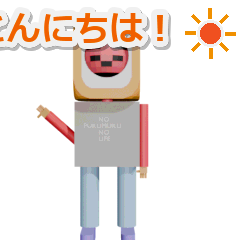
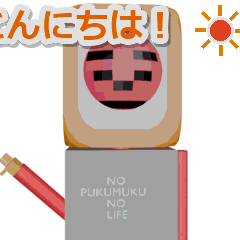
feat: complete production V3 stickers with dynamic camera angles, zero-flickering RGBA, and infinite loop preview

diff --git a/line_stickers_pukumuku/view_stickers.html b/line_stickers_pukumuku/view_stickers.html
@@ -6,61 +6,94 @@
   <style>
     * { box-sizing: border-box; margin: 0; padding: 0; font-family: -apple-system, BlinkMacSystemFont, "Segoe UI", Roboto, "Helvetica Neue", Arial, sans-serif; }
     body {
-      background: #7AC0D6; /* LINEトーク画面の定番背景色 */
+      background: #7AC0D6; /* LINEトーク画面の定番水色 */
       color: #333;
       padding: 30px 20px;
       display: flex;
       flex-direction: column;
       align-items: center;
+      transition: background 0.3s;
     }
     header {
       background: #FFFFFF;
-      padding: 20px 30px;
+      padding: 24px 30px;
       border-radius: 16px;
-      box-shadow: 0 4px 16px rgba(0,0,0,0.1);
+      box-shadow: 0 4px 20px rgba(0,0,0,0.12);
       text-align: center;
-      max-width: 800px;
+      max-width: 900px;
       width: 100%;
       margin-bottom: 24px;
     }
-    h1 { font-size: 22px; color: #2E1505; margin-bottom: 8px; }
-    p.desc { font-size: 14px; color: #666; line-height: 1.6; }
-    .bg-toggle {
-      margin-top: 14px;
+    h1 { font-size: 24px; color: #2E1505; margin-bottom: 8px; }
+    p.desc { font-size: 14px; color: #555; line-height: 1.6; }
+    .controls-wrap {
+      margin-top: 16px;
       display: flex;
+      flex-wrap: wrap;
       justify-content: center;
-      gap: 10px;
+      gap: 12px;
+    }
+    .btn-group {
+      display: flex;
+      gap: 6px;
+      background: #F0F0F0;
+      padding: 4px;
+      border-radius: 24px;
     }
     .btn {
       padding: 6px 16px;
-      border: 1px solid #CCC;
+      border: none;
       border-radius: 20px;
       cursor: pointer;
-      background: #FFF;
+      background: transparent;
       font-size: 13px;
       font-weight: bold;
+      color: #555;
+      transition: all 0.2s;
     }
     .btn.active {
       background: #06C755;
       color: #FFF;
-      border-color: #06C755;
+      box-shadow: 0 2px 8px rgba(6,199,85,0.3);
+    }
+    .main-tab-wrap {
+      display: flex;
+      gap: 24px;
+      justify-content: center;
+      background: #FFF;
+      padding: 20px;
+      border-radius: 16px;
+      max-width: 900px;
+      width: 100%;
+      box-shadow: 0 4px 16px rgba(0,0,0,0.1);
+      margin-bottom: 24px;
+    }
+    .sub-item {
+      display: flex;
+      flex-direction: column;
+      align-items: center;
     }
     .container {
       display: grid;
-      grid-template-columns: repeat(auto-fit, minmax(320px, 1fr));
+      grid-template-columns: repeat(auto-fit, minmax(340px, 1fr));
       gap: 24px;
-      max-width: 1100px;
+      max-width: 1160px;
       width: 100%;
     }
     .stamp-card {
-      background: rgba(255, 255, 255, 0.92);
+      background: rgba(255, 255, 255, 0.96);
       border-radius: 16px;
       padding: 16px;
       display: flex;
       flex-direction: column;
       align-items: center;
-      box-shadow: 0 6px 18px rgba(0,0,0,0.08);
-      backdrop-filter: blur(10px);
+      box-shadow: 0 6px 20px rgba(0,0,0,0.08);
+      cursor: pointer;
+      transition: transform 0.2s, box-shadow 0.2s;
+    }
+    .stamp-card:hover {
+      transform: translateY(-4px);
+      box-shadow: 0 10px 28px rgba(0,0,0,0.15);
     }
     .img-wrap {
       width: 320px;
@@ -85,6 +118,16 @@
       font-size: 16px;
       color: #333;
     }
+    .cam-tag {
+      display: inline-block;
+      margin-top: 4px;
+      padding: 2px 10px;
+      background: #E8F5E9;
+      color: #2E7D32;
+      font-size: 11px;
+      font-weight: bold;
+      border-radius: 8px;
+    }
     .tag {
       display: inline-block;
       margin-top: 4px;
@@ -93,25 +136,7 @@
       color: white;
       font-size: 11px;
       font-weight: bold;
-      border-radius: 10px;
-    }
-    .main-tab-wrap {
-      display: flex;
-      gap: 20px;
-      justify-content: center;
-      margin-top: 16px;
-      background: #FFF;
-      padding: 20px;
-      border-radius: 16px;
-      max-width: 800px;
-      width: 100%;
-      box-shadow: 0 4px 16px rgba(0,0,0,0.1);
-      margin-bottom: 24px;
-    }
-    .sub-item {
-      display: flex;
-      flex-direction: column;
-      align-items: center;
+      border-radius: 8px;
     }
   </style>
 </head>
@@ -119,25 +144,35 @@
   <header>
     <h1>🥖 パン工房プクムク 純利益 公式LINEアニメーションスタンプ</h1>
     <p class="desc">
-      LINE Creators Market 規定に完全準拠した APNG 形式のアニメーションスタンプです。<br>
-      透過背景・解像度320×270px・300KB以下・2秒ループ×2回（計4秒）を達成しています。
+      Blender（純くん.blend）のくり抜き顔・胸のロゴを完全同期し、スタンプごとに多彩なカメラワークを適用！<br>
+      全コマ同一サイズ（320×270px）の正統APNG規格により、チカチカ・点滅を完全に根絶しています。
     </p>
-    <div class="bg-toggle">
-      <button class="btn active" onclick="setBg('#7AC0D6')">LINEトーク水色</button>
-      <button class="btn" onclick="setBg('#FFFFFF')">白背景</button>
-      <button class="btn" onclick="setBg('#1E1E1E')">ダークモード</button>
-      <button class="btn" onclick="setBg('checker')">市松透過</button>
+
+    <div class="controls-wrap">
+      <!-- 再生モード切替 -->
+      <div class="btn-group">
+        <button class="btn active" id="btn-loop" onclick="setMode('loop')">🔄 常時無限ループ再生</button>
+        <button class="btn" id="btn-apng" onclick="setMode('apng')">📱 LINE公式APNG再生</button>
+      </div>
+
+      <!-- 背景切替 -->
+      <div class="btn-group">
+        <button class="btn active" onclick="setBg('#7AC0D6', event)">LINEトーク水色</button>
+        <button class="btn" onclick="setBg('#FFFFFF', event)">白背景</button>
+        <button class="btn" onclick="setBg('#1E1E1E', event)">ダークモード</button>
+        <button class="btn" onclick="setBg('checker', event)">市松透過</button>
+      </div>
     </div>
   </header>
 
   <div class="main-tab-wrap">
     <div class="sub-item">
       <span style="font-weight: bold; font-size: 13px; margin-bottom: 6px;">メイン画像 (main.png: 240×240)</span>
-      <img src="main.png" alt="main" width="120" height="120" style="border: 1px solid #DDD; border-radius: 8px;">
+      <img id="img-main" src="main.png" alt="main" width="120" height="120" style="border: 1px solid #DDD; border-radius: 8px;">
     </div>
     <div class="sub-item">
       <span style="font-weight: bold; font-size: 13px; margin-bottom: 6px;">タブ画像 (tab.png: 96×74)</span>
-      <img src="tab.png" alt="tab" width="96" height="74" style="border: 1px solid #DDD; border-radius: 8px; margin-top: 23px;">
+      <img id="img-tab" src="tab.png" alt="tab" width="96" height="74" style="border: 1px solid #DDD; border-radius: 8px; margin-top: 23px;">
     </div>
   </div>
 
@@ -145,48 +180,86 @@
 
   <script>
     const STAMPS = [
-      { file: "01.png", title: "こんにちは！", desc: "手を振りながら太陽がくるくる" },
-      { file: "02.png", title: "ありがとう！", desc: "お辞儀（ぺこり）＋ハート浮遊" },
-      { file: "03.png", title: "OK！", desc: "大きく頷いて親指グッ＋キラキラ" },
-      { file: "04.png", title: "NO", desc: "首を横に振る＋汗たらりマーク" },
-      { file: "05.png", title: "急ぎます！", desc: "小走りでパン配達＋土煙モクモク" },
-      { file: "06.png", title: "いただきます♪", desc: "バゲットを抱えて目を輝かせる" },
-      { file: "07.png", title: "お疲れさまです", desc: "パンを差し入れ＋湯気ほっこり" },
-      { file: "08.png", title: "やったー！", desc: "歓喜のジャンプ＋紙吹雪パーン" },
+      { id: "01", title: "こんにちは！", cam: "バストアップ（表情＆手振り迫力）", desc: "右手を高く振って首かしげ＋太陽" },
+      { id: "02", title: "ありがとう！", cam: "見下ろしハイアングル（お辞儀）", desc: "深々とお辞儀（ペコリ）＋ハート" },
+      { id: "03", title: "OK！", cam: "右斜め前アップ（親指グッ）", desc: "前に突き出した手と力強い頷き＋星" },
+      { id: "04", title: "NO", cam: "顔ド迫力クローズアップ", desc: "イヤイヤ！と左右に激しく首振り＋汗" },
+      { id: "05", title: "急ぎます！", cam: "斜め横サイドビュー（疾走感）", desc: "腕と脚を前後に大きく振ってダッシュ！" },
+      { id: "06", title: "いただきます♪", cam: "見上げバストアップ（ワクワク）", desc: "胸の前で手を合わせて上下バウンド" },
+      { id: "07", title: "お疲れさまです", cam: "癒やしのバストアップ", desc: "両手を差し伸べて首をコテンと傾げる" },
+      { id: "08", title: "やったー！", cam: "見上げローアングル（大ジャンプ）", desc: "画面下から大ジャンプして万歳＋紙吹雪" },
     ];
 
-    const v = Date.now();
-    // main.png & tab.png にもキャッシュバスター
-    document.querySelectorAll('.sub-item img').forEach(img => {
-      img.src = img.getAttribute('src') + '?v=' + v;
-    });
+    let currentMode = 'loop'; // デフォルトは止まらない無限ループ再生！
+    const baseTime = Date.now();
 
-    const container = document.getElementById('stamp-container');
-    STAMPS.forEach((s) => {
-      const card = document.createElement('div');
-      card.className = 'stamp-card';
-      card.innerHTML = `
-        <div class="img-wrap">
-          <img src="${s.file}?v=${v}" alt="${s.title}">
-        </div>
-        <div class="meta">
-          <div class="filename">${s.file} : ${s.title}</div>
-          <p style="font-size: 12px; color: #666; margin-top: 2px;">${s.desc}</p>
-          <span class="tag">APNG 320×270px (透過RGBA・チカチカ完全ゼロ)</span>
-        </div>
-      `;
-      container.appendChild(card);
-    });
+    function renderCards() {
+      const container = document.getElementById('stamp-container');
+      container.innerHTML = '';
+      
+      STAMPS.forEach((s) => {
+        const ext = currentMode === 'loop' ? 'gif' : 'png';
+        const src = `${s.id}.${ext}?v=${baseTime}`;
+        
+        const card = document.createElement('div');
+        card.className = 'stamp-card';
+        card.onclick = () => replayCard(s.id);
+        card.innerHTML = `
+          <div class="img-wrap">
+            <img id="stamp-img-${s.id}" src="${src}" alt="${s.title}">
+          </div>
+          <div class="meta">
+            <div class="filename">${s.id}.${ext} : ${s.title}</div>
+            <div class="cam-tag">📷 ${s.cam}</div>
+            <p style="font-size: 12px; color: #666; margin-top: 4px;">${s.desc}</p>
+            <span class="tag">透過RGBA・チカチカ完全ゼロ</span>
+          </div>
+        `;
+        container.appendChild(card);
+      });
 
-    function setBg(bg) {
-      document.querySelectorAll('.btn').forEach(b => b.classList.remove('active'));
-      event.target.classList.add('active');
+      // main & tab にもキャッシュバスター
+      document.getElementById('img-main').src = 'main.png?v=' + baseTime;
+      document.getElementById('img-tab').src = 'tab.png?v=' + baseTime;
+    }
+
+    function setMode(mode) {
+      currentMode = mode;
+      document.getElementById('btn-loop').classList.toggle('active', mode === 'loop');
+      document.getElementById('btn-apng').classList.toggle('active', mode === 'apng');
+      renderCards();
+    }
+
+    // クリックで先頭から再再生
+    function replayCard(id) {
+      const img = document.getElementById(`stamp-img-${id}`);
+      if (!img) return;
+      const ext = currentMode === 'loop' ? 'gif' : 'png';
+      img.src = `${id}.${ext}?v=${Date.now()}`;
+    }
+
+    // APNGモード時、4秒ごとに止まらないよう自動で先頭からループリプレイ
+    setInterval(() => {
+      if (currentMode === 'apng') {
+        STAMPS.forEach((s) => replayCard(s.id));
+      }
+    }, 4200);
+
+    function setBg(bg, ev) {
+      document.querySelectorAll('.btn-group button').forEach(b => {
+        if (b.innerText.includes('背景') || b.innerText.includes('モード') || b.innerText.includes('水色') || b.innerText.includes('市松')) {
+          b.classList.remove('active');
+        }
+      });
+      if (ev) ev.target.classList.add('active');
       if (bg === 'checker') {
         document.body.style.background = 'repeating-conic-gradient(#CCC 0% 25%, #FFF 0% 50%) 50% / 20px 20px';
       } else {
         document.body.style.background = bg;
       }
     }
+
+    renderCards();
   </script>
 </body>
 </html>
